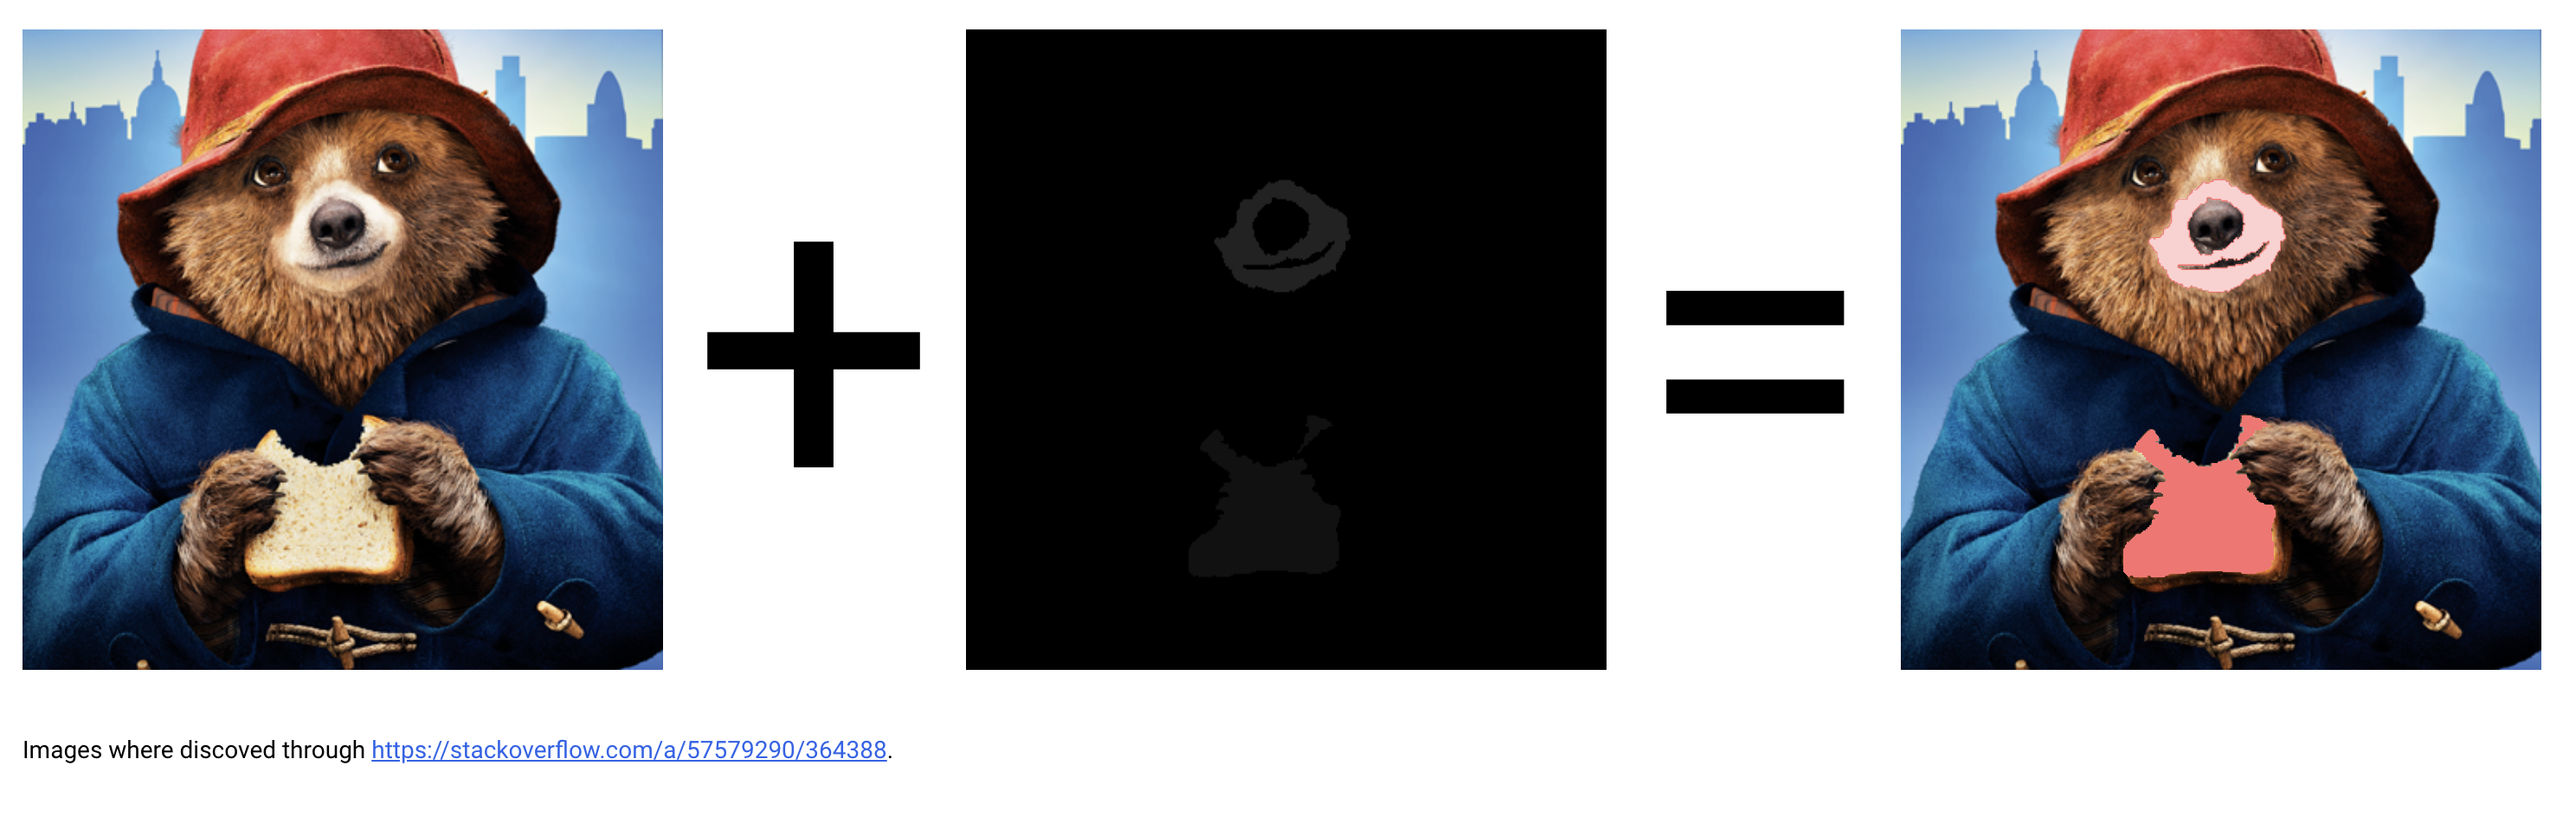
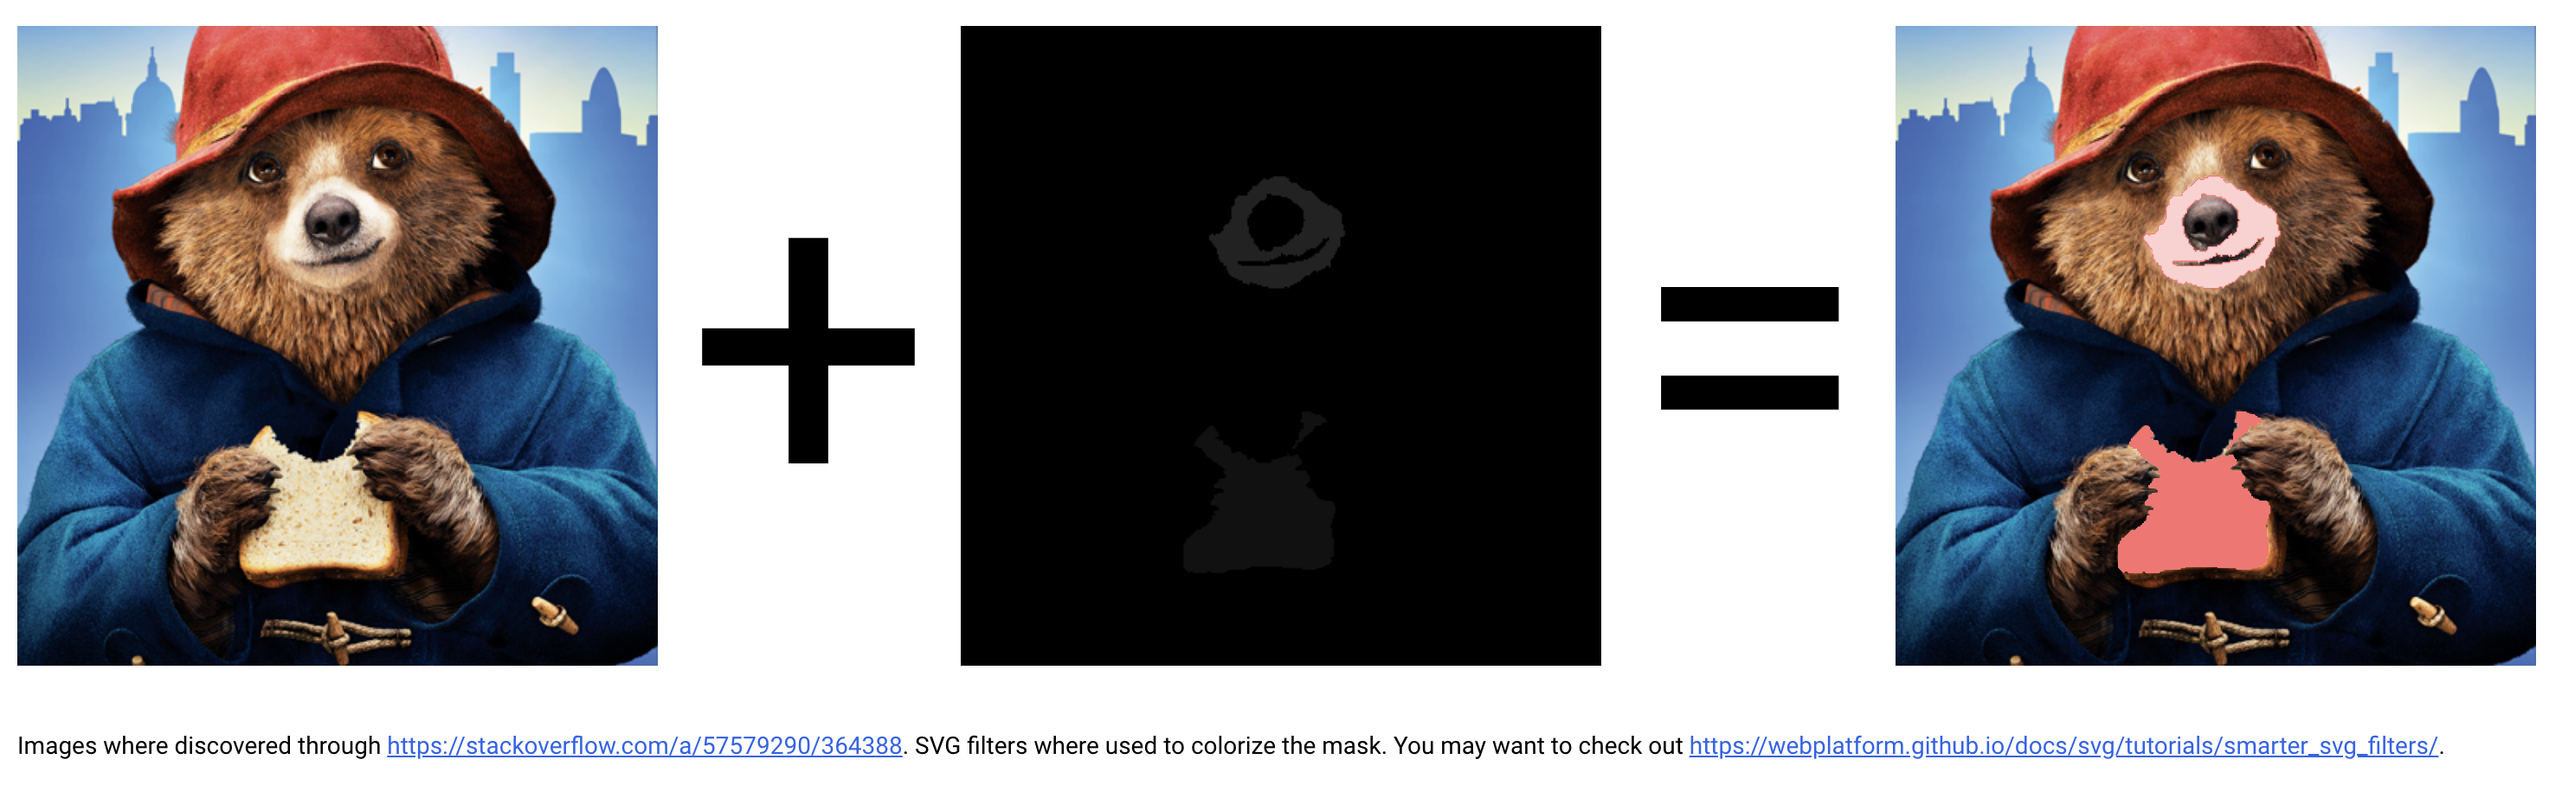
Link to svg filter tutorial

diff --git a/examples/image_mask_overlay/main.py b/examples/image_mask_overlay/main.py
@@ -22,6 +22,9 @@ with ui.row().classes('w-full flex items-center'):
             <feColorMatrix type="matrix" values="1 0 0 0 0   0 1 0 0 0   0 0 1 0 0  3 -1 -1 0 0" />
         </filter>
     '''
-ui.markdown('Images where discovered through <https://stackoverflow.com/a/57579290/364388>.').classes('mt-4')
+ui.markdown(
+    'Images where discovered through <https://stackoverflow.com/a/57579290/364388>. '
+    'SVG filters where used to colorize the mask. You may want to check out <https://webplatform.github.io/docs/svg/tutorials/smarter_svg_filters/>.'
+).classes('mt-4')
 
 ui.run()
